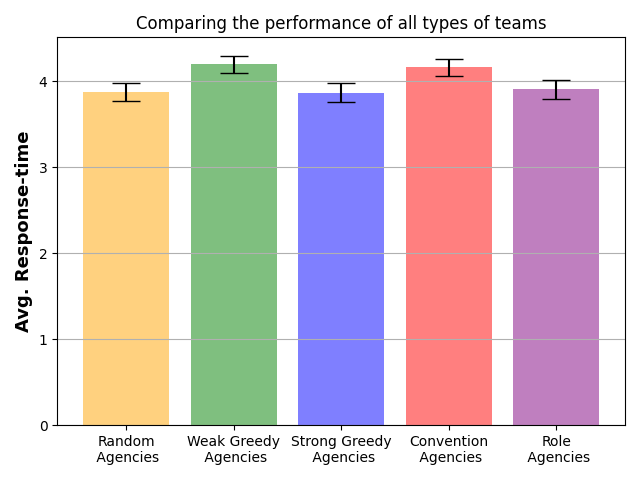
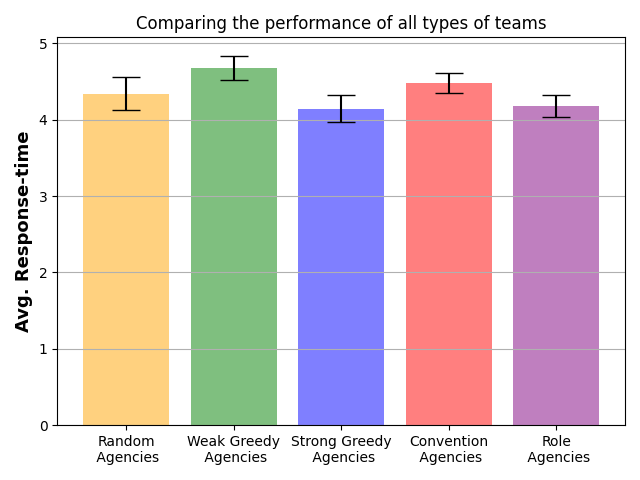
Fixed distances

diff --git a/ambulance_emergency_response/environment/environment.py b/ambulance_emergency_response/environment/environment.py
@@ -57,7 +57,8 @@ class Entity(object):
     
     @staticmethod
     def distance_between(position1: tuple[int, int], position2: tuple[int, int]):
-        return np.linalg.norm(np.array(position1) - np.array(position2))
+        # return np.linalg.norm(np.array(position1) - np.array(position2))s Should be manhattan distance
+        return abs(position1[0] - position2[0]) + abs(position1[1] - position2[1])
     
     @staticmethod
     def in_world(position: tuple[int, int]):
@@ -179,6 +180,12 @@ class Ambulance(Entity):
         self.request = None
         self.coming_back = False
         self.position = self.OWNER.position
+
+    def __str__(self) -> str:
+        return f"{self.request}"
+
+    def __repr__(self) -> str:
+        return str(self)
 
 
 class Request(Entity):
@@ -442,29 +449,6 @@ class AmbulanceERS(Env):
             agency.last_action = action
 
         ##   Dynamic things
-
-        # Request generation
-        if not self.finishing_phase:
-            if self.num_spawned_requests >= self.request_max_generation_steps:
-                self.finishing_phase = True
-                self.logger.info("Finishing phase...")
-            
-            else:
-                for valid_position in self.__get_available_positions():
-
-                    if random.random() >= self.OCCUPANCY_MAP[valid_position[0]][valid_position[1]] * self.stressfulness:
-                        continue
-
-                    # generate new request
-                    request = Request(
-                        f"{ENTITY_IDS[ERSEntity.REQUEST]}_{self.current_step}_{valid_position}",
-                        valid_position,
-                        random.choices(*zip(*REQUEST_WEIGHT.items()))[0]
-                    )
-                    self.live_requests.append(request)
-                    self.num_spawned_requests += 1
-
-                    self.grid_city[request.position] = ENTITY_IDS[ERSEntity.REQUEST]
             
         # Checks invalid requests firstly
         for request in self.live_requests:
@@ -498,6 +482,29 @@ class AmbulanceERS(Env):
         # Update requests' timer
         for request in self.live_requests:
             request.time_step()
+
+        # Request generation
+        if not self.finishing_phase:
+            if self.num_spawned_requests >= self.request_max_generation_steps:
+                self.finishing_phase = True
+                self.logger.info("Finishing phase...")
+
+            else:
+                for valid_position in self.__get_available_positions():
+
+                    if random.random() >= self.OCCUPANCY_MAP[valid_position[0]][valid_position[1]] * self.stressfulness:
+                        continue
+
+                    # generate new request
+                    request = Request(
+                        f"{ENTITY_IDS[ERSEntity.REQUEST]}_{self.current_step}_{valid_position}",
+                        valid_position,
+                        random.choices(*zip(*REQUEST_WEIGHT.items()))[0]
+                    )
+                    self.live_requests.append(request)
+                    self.num_spawned_requests += 1
+
+                    self.grid_city[request.position] = ENTITY_IDS[ERSEntity.REQUEST]
 
         for agency in self.agencies:
             self.total_number_ambulances += len(agency.available_ambulances)

diff --git a/ambulance_emergency_response/agents/greedy_agent.py b/ambulance_emergency_response/agents/greedy_agent.py
@@ -34,7 +34,7 @@ class WeakGreedyAgent(Agent):
             if action.meaning == ERSAction.ASSIST:
                 request = action.request
 
-                if Entity.distance_between(self_agency.position, request.position) >= request.elapse_time:
+                if Entity.distance_between(self_agency.position, request.position) > request.elapse_time:
                     continue
                 
                 # find the agency that is closer to the request
@@ -92,7 +92,7 @@ class StrongGreedyAgent(Agent):
             if action.meaning == ERSAction.ASSIST:
                 request = action.request
 
-                if Entity.distance_between(self_agency.position, request.position) >= request.elapse_time:
+                if Entity.distance_between(self_agency.position, request.position) > request.elapse_time:
                     continue
                 
                 # find the agency that is closer to the request

diff --git a/ambulance_emergency_response/environment/rendering.py b/ambulance_emergency_response/environment/rendering.py
@@ -118,9 +118,9 @@ class CityRender(object):
             sprite.color = AGENCY_COLORS[i]
             references.append(sprite)
             self.__create_label(references, batch, 
-                                x=self.px + self.block_size * (col-1),
-                                y=2 * self.py + self.city_size[0] - (self.block_size * (row + 1)),
-                                text=agency.name, color=(255, 255, 255, 255))
+                                x=self.px + self.block_size * col,
+                                y=1.5 * self.py + self.city_size[0] - (self.block_size * row),
+                                text=agency.name, color=(255, 255, 255, 255), bold=True, anchor_x='center')
 
         batch.draw()
 

diff --git a/run.py b/run.py
@@ -78,7 +78,7 @@ if __name__ == '__main__':
         agent_coords=[(220, 40), (40, 220), (220, 440), (440, 220)],
         agent_num_ambulances=[1, 2, 2, 2],
         request_max_generation_steps=50,
-        occupancy_map=OCCUPANCY_MAP_2,
+        occupancy_map=OCCUPANCY_MAP_4,
         show_density_map=opt.show_results,
         save_density_filename=EXPERIMENT_FOLDER + "density_map.png" if opt.save_results else None,
         stressfulness=2
